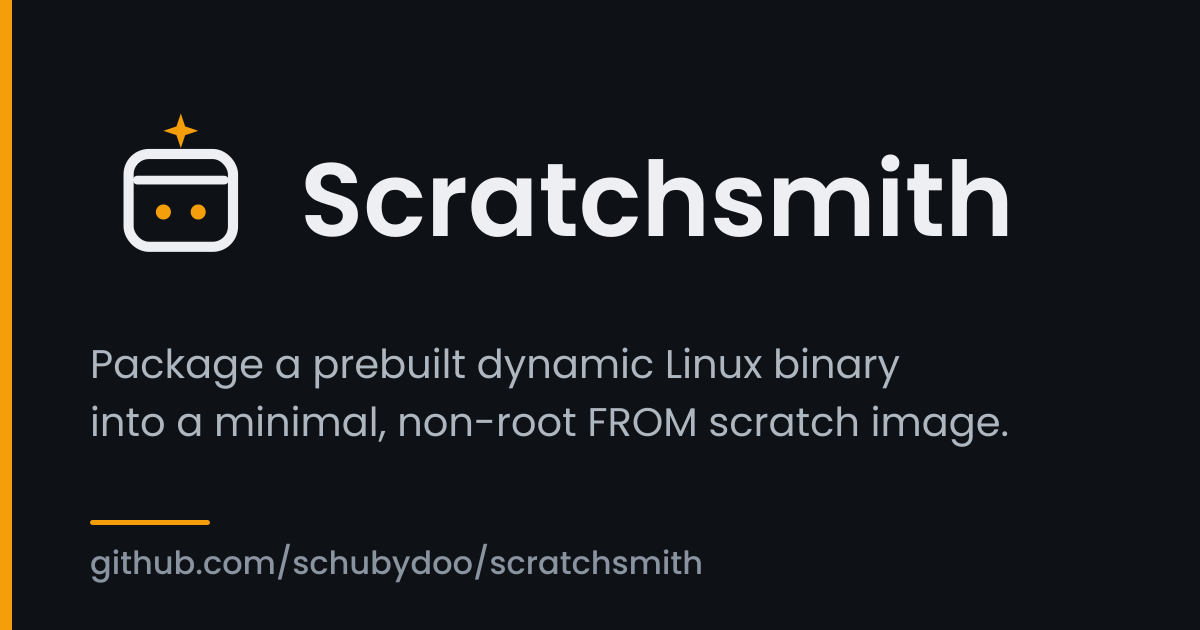
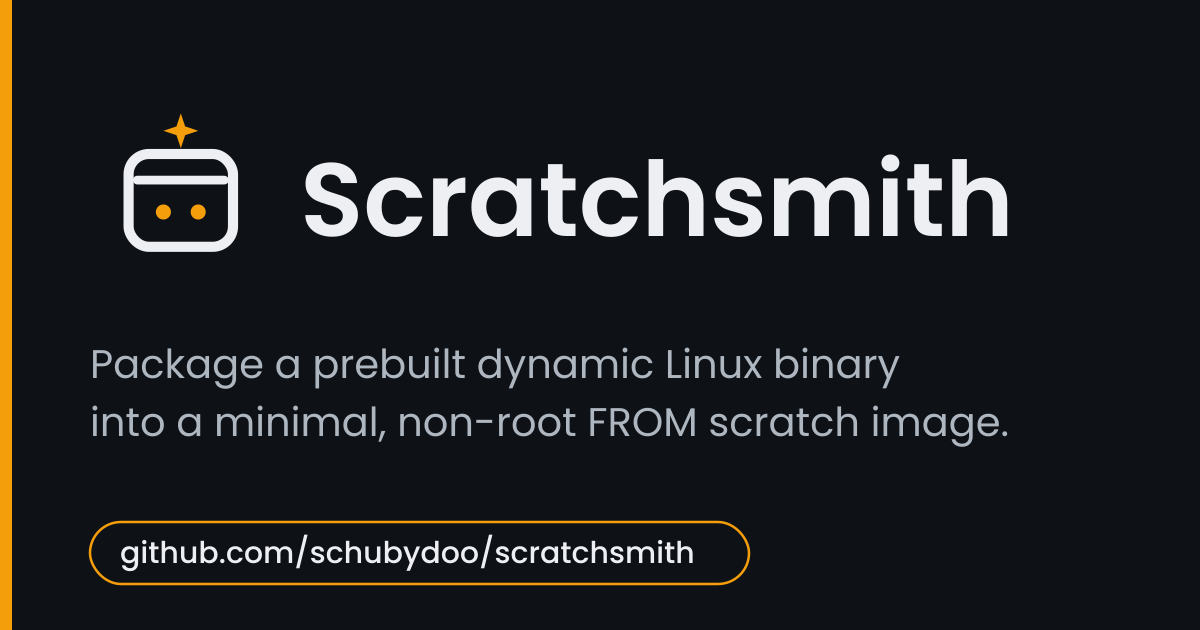
docs: shorten the social title + add a CTA to the OG card (#21)
* docs: shorten the social/SERP title to fit the 60-char sweet spot

The homepage title (og:title/twitter:title and the browser/SERP <title>)
was 74 chars — X/LinkedIn/Google truncate past ~60. Trim to the house
tagline core, 'Scratchsmith — daemonless supply-chain packager' (47), in
both overrides/main.html and the mike redirect stub. The 'dynamic Linux
binaries' detail still lives in the description.

* docs: give the OG card a CTA — repo URL in an amber-outlined pill

The card's repo URL is now an amber-outlined pill with a → so it reads as
clickable (opengraph 'add a call-to-action' nit). Keeps the repo URL (the
canonical OSS home), not the docs github.io URL.

---------

Changed region(s): [[0.0617, 0.8143, 0.6167, 0.9349]]

diff --git a/mike/redirect.html b/mike/redirect.html
@@ -14,17 +14,17 @@
     before the first release the image 404s (only `dev/` exists) while title +
     description still unfurl — it self-heals on release.
   -->
-  <title>Scratchsmith — daemonless supply-chain packager for dynamic Linux binaries</title>
+  <title>Scratchsmith — daemonless supply-chain packager</title>
   <meta name="description" content="Package a prebuilt dynamic Linux binary into a minimal, non-root FROM scratch OCI image — no Dockerfile, no static linking.">
   <link rel="canonical" href="https://schubydoo.github.io/scratchsmith/latest/">
   <meta property="og:type" content="website">
   <meta property="og:site_name" content="Scratchsmith">
-  <meta property="og:title" content="Scratchsmith — daemonless supply-chain packager for dynamic Linux binaries">
+  <meta property="og:title" content="Scratchsmith — daemonless supply-chain packager">
   <meta property="og:description" content="Package a prebuilt dynamic Linux binary into a minimal, non-root FROM scratch OCI image — no Dockerfile, no static linking.">
   <meta property="og:image" content="https://schubydoo.github.io/scratchsmith/latest/assets/og-card.png">
   <meta property="og:url" content="https://schubydoo.github.io/scratchsmith/latest/">
   <meta name="twitter:card" content="summary_large_image">
-  <meta name="twitter:title" content="Scratchsmith — daemonless supply-chain packager for dynamic Linux binaries">
+  <meta name="twitter:title" content="Scratchsmith — daemonless supply-chain packager">
   <meta name="twitter:description" content="Package a prebuilt dynamic Linux binary into a minimal, non-root FROM scratch OCI image — no Dockerfile, no static linking.">
   <meta name="twitter:image" content="https://schubydoo.github.io/scratchsmith/latest/assets/og-card.png">
   <noscript>

diff --git a/overrides/main.html b/overrides/main.html
@@ -2,7 +2,7 @@
 
 {# The bare site_name ("Scratchsmith") is short for SERP/social; give the
    homepage a descriptive title. Subpages keep Material's "<page> - <site_name>". #}
-{%- set _homepage_title = "Scratchsmith — daemonless supply-chain packager for dynamic Linux binaries" -%}
+{%- set _homepage_title = "Scratchsmith — daemonless supply-chain packager" -%}
 {% block htmltitle %}
   {% if page and page.is_homepage %}
     <title>{{ _homepage_title }}</title>
